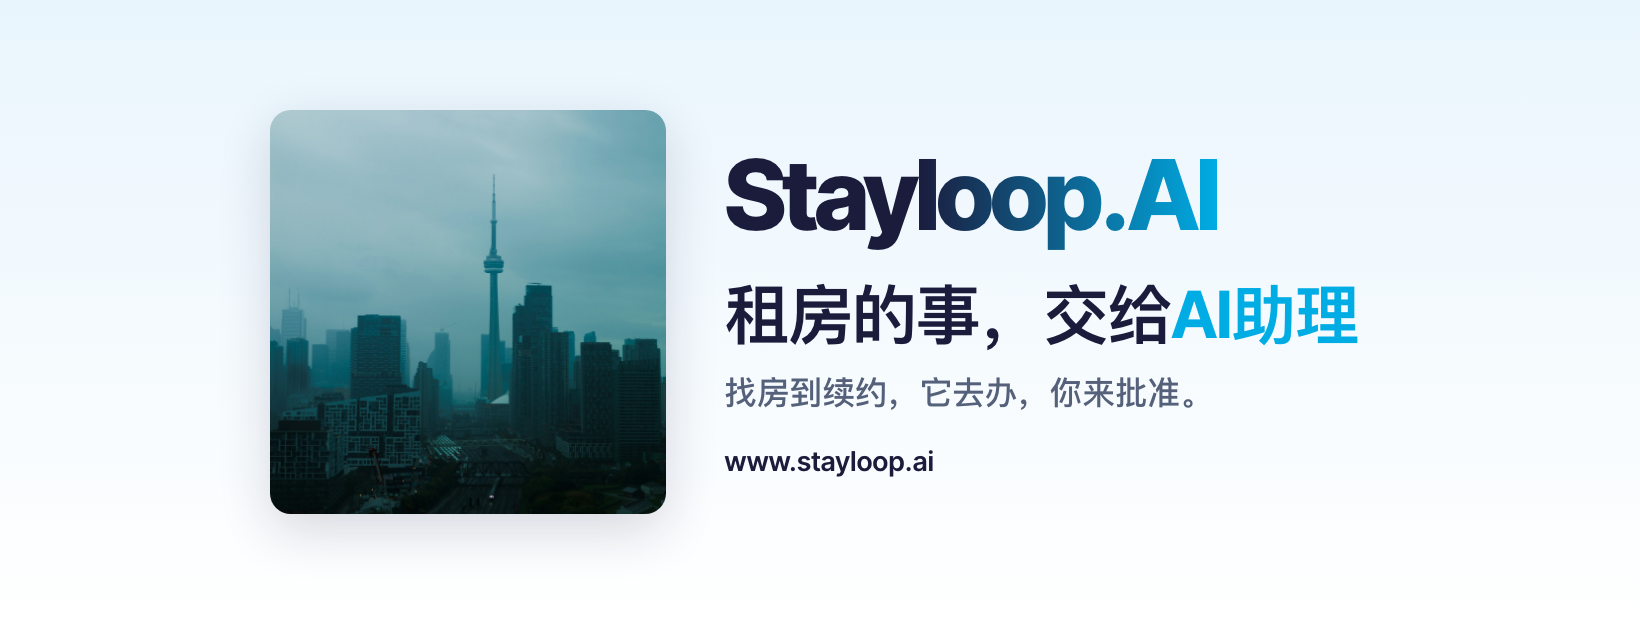
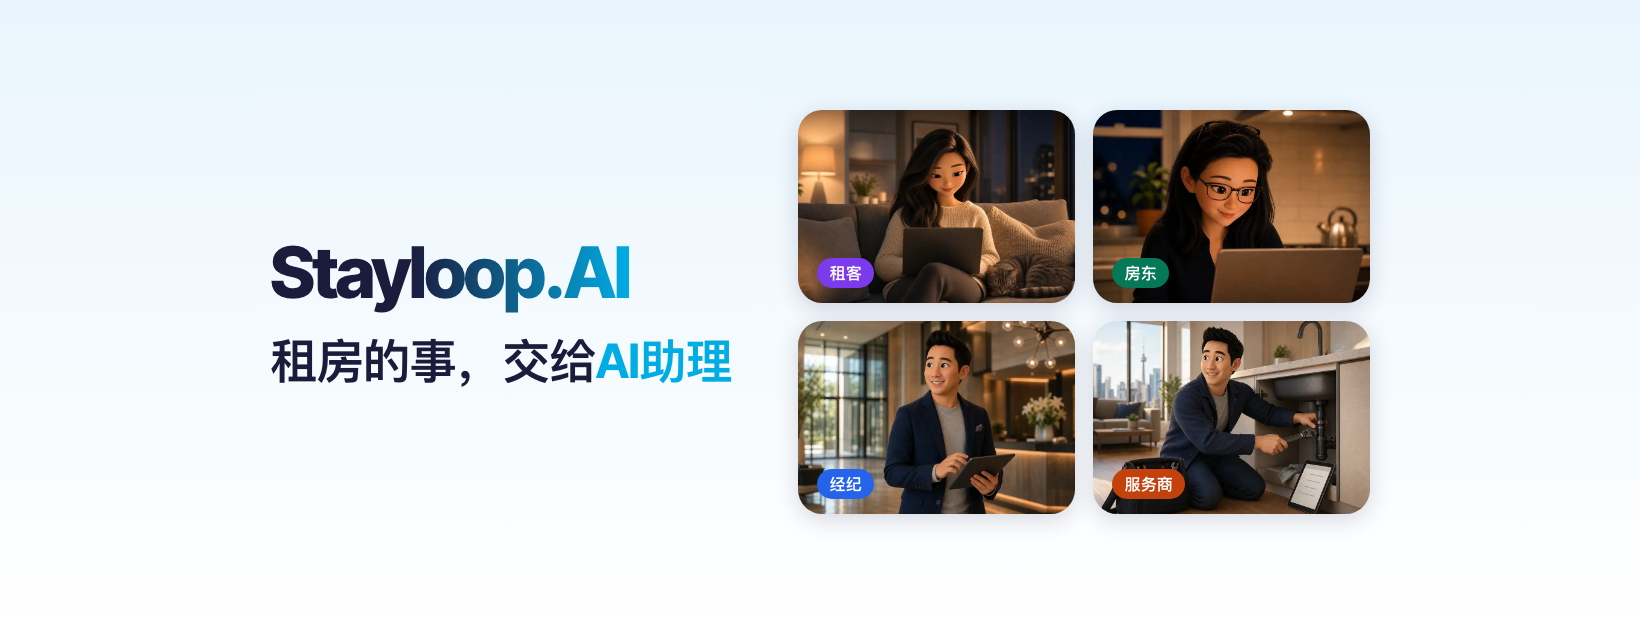
docs(social): 横幅改为四个身份场景卡（用户选定），模板保留另外三个方向

diff --git a/design/social/banner.template.html b/design/social/banner.template.html
@@ -13,47 +13,120 @@ body {
   color: #1B1B3C;
   -webkit-font-smoothing: antialiased;
 }
-#safe { position: absolute; display: flex; align-items: center; gap: calc(var(--u) * 0.9); }
-#photo { flex: 0 0 auto; height: 100%; border-radius: calc(var(--u) * 0.32); overflow: hidden; box-shadow: 0 calc(var(--u) * 0.25) calc(var(--u) * 0.8) rgba(27,27,60,0.16); }
-#photo img { width: 100%; height: 100%; object-fit: cover; object-position: 50% 49%; display: block; }
+#safe { position: absolute; display: flex; align-items: center; gap: calc(var(--g) * 1px); }
 #text { flex: 1 1 auto; min-width: 0; display: flex; flex-direction: column; justify-content: center; white-space: nowrap; }
 .wm { font-weight: 800; letter-spacing: -0.04em; line-height: 1; font-size: calc(var(--u) * 1.5); }
 .wm .accent { background: linear-gradient(90deg, #1B1B3C 0%, #00ACE4 100%); -webkit-background-clip: text; background-clip: text; -webkit-text-fill-color: transparent; }
 .hl { font-weight: 700; letter-spacing: -0.02em; line-height: 1.12; font-size: calc(var(--u) * 1); margin-top: calc(var(--u) * 0.55); }
 .hl em { font-style: normal; color: #00ACE4; }
 .sub { font-weight: 500; line-height: 1.25; font-size: calc(var(--u) * 0.5); margin-top: calc(var(--u) * 0.3); color: #55607A; }
-.url { font-weight: 600; font-size: calc(var(--u) * 0.42); margin-top: calc(var(--u) * 0.5); color: #1B1B3C; letter-spacing: 0.01em; }
-body.compact .sub, body.compact .url { display: none; }
-body.compact .hl { margin-top: calc(var(--u) * 0.35); }
+.url { font-weight: 600; font-size: calc(var(--u) * 0.42); margin-top: calc(var(--u) * 0.5); letter-spacing: 0.01em; }
+.roles { display: flex; gap: calc(var(--u) * 0.22); margin-top: calc(var(--u) * 0.6); }
+.pill { font-weight: 700; font-size: calc(var(--u) * 0.36); line-height: 1; color: #fff; padding: calc(var(--u) * 0.17) calc(var(--u) * 0.3); border-radius: 999px; }
+.hide { display: none !important; }
+
+/* media side */
+#media { flex: 0 0 auto; height: 100%; }
+.card { position: relative; border-radius: calc(var(--r) * 1px); overflow: hidden; box-shadow: 0 6px 22px rgba(27,27,60,0.16); }
+.card img { width: 100%; height: 100%; object-fit: cover; display: block; }
+#media.one .card { width: 100%; height: 100%; }
+#media.grid { display: grid; gap: calc(var(--g) * 0.28px); }
+#media.grid .card { width: 100%; height: 100%; min-height: 0; }
+.card .tag { position: absolute; left: 7%; bottom: 8%; font-weight: 700; color: #fff; line-height: 1; padding: 0.42em 0.75em; border-radius: 999px; font-size: calc(var(--t) * 1px); }
+
+/* v=c: dark */
+body.dark { background: radial-gradient(120% 140% at 85% 50%, #123A63 0%, #1B1B3C 55%, #14142E 100%); color: #FFFFFF; }
+body.dark .wm .accent { background: linear-gradient(90deg, #FFFFFF 0%, #00ACE4 100%); -webkit-background-clip: text; background-clip: text; }
+body.dark .sub { color: #B9C4DA; }
+body.dark .card { box-shadow: 0 10px 34px rgba(0,0,0,0.45); }
+/* v=c and v=d: the one-line promise is the headline */
+body.promise .hl { font-weight: 700; }
+/* v=d: type only */
+body.type .wm { font-size: calc(var(--u) * 0.95); }
+body.type .hl { font-size: calc(var(--u) * 1.75); margin-top: calc(var(--u) * 0.5); letter-spacing: -0.03em; }
 </style>
 </head>
 <body>
 <div id="safe">
-  <div id="photo"><img src="../../public/home/hero-mist.jpg" alt=""></div>
   <div id="text">
     <div class="wm">Stay<span class="accent">loop.AI</span></div>
-    <div class="hl" data-en="Leave renting to <em>an AI Agent</em>" data-zh="租房的事，交给<em>AI助理</em>"></div>
-    <div class="sub" data-en="From search to renewal: it does the work, you approve." data-zh="找房到续约，它去办，你来批准。"></div>
+    <div class="hl"></div>
+    <div class="sub"></div>
+    <div class="roles"></div>
     <div class="url">www.stayloop.ai</div>
   </div>
+  <div id="media"></div>
 </div>
 <script>
-// ?lang=en|zh&sx=&sy=&sw=&sh=&photo=<fraction of safe width>&compact=1
+// ?v=a|b|c|d&lang=en|zh&sx=&sy=&sw=&sh=&photo=<fraction of safe width>&compact=1
+//   a  light, misty skyline card on the left, headline + promise + url
+//   b  light, the four role scenes from the homepage (tenant / landlord / realtor / provider), headline only
+//   c  dark, one scene card on the right, the promise as the headline
+//   d  type only: small wordmark, big headline, role pills
 const q = new URLSearchParams(location.search);
 const num = (k, d) => (q.has(k) ? Number(q.get(k)) : d);
+const v = (q.get('v') || 'a').toLowerCase();
 const lang = q.get('lang') === 'zh' ? 'zh' : 'en';
+const compact = q.get('compact') === '1';
 document.documentElement.lang = lang === 'zh' ? 'zh-CN' : 'en';
-if (q.get('compact') === '1') document.body.classList.add('compact');
-for (const el of document.querySelectorAll('[data-en]')) el.innerHTML = el.dataset[lang];
+const T = {
+  headline: { en: 'Leave renting to <em>an AI Agent</em>', zh: '租房的事，交给<em>AI助理</em>' },
+  promise:  { en: 'From search to renewal: it does the work, you approve.', zh: '找房到续约，它去办，你来批准。' },
+  promiseHl:{ en: 'From search to renewal:<br>it does the work, <em>you approve.</em>', zh: '找房到续约，<br>它去办，<em>你来批准。</em>' },
+};
+const ROLES = [
+  { en: 'Tenant',   zh: '租客',   color: '#7C3AED', img: 'film/mia-sofa.webp',        pos: '50% 30%' },
+  { en: 'Landlord', zh: '房东',   color: '#047857', img: 'film/sarah-report.webp',    pos: '32% 35%' },
+  { en: 'Realtor',  zh: '经纪',   color: '#2563EB', img: 'film/david-lobby.webp',     pos: '76% 25%' },
+  { en: 'Provider', zh: '服务商', color: '#C2410C', img: 'film/provider-repair.webp', pos: '36% 30%' },
+];
+const IMG = '../../public/home/';
+const $ = (s) => document.querySelector(s);
+const safe = $('#safe'), text = $('#text'), media = $('#media');
 const W = innerWidth, H = innerHeight;
 const sx = num('sx', 0), sy = num('sy', 0), sw = num('sw', W), sh = num('sh', H);
-const safe = document.getElementById('safe'), photo = document.getElementById('photo'), text = document.getElementById('text');
 Object.assign(safe.style, { left: sx + 'px', top: sy + 'px', width: sw + 'px', height: sh + 'px' });
-photo.style.width = Math.round(sw * num('photo', 0.34)) + 'px';
+const root = document.documentElement.style;
+root.setProperty('--g', sh * 0.16);
+root.setProperty('--r', Math.max(8, sh * 0.06));
+const card = (src, pos) => `<div class="card"><img src="${IMG}${src}" style="object-position:${pos}" alt=""></div>`;
+const hide = (...sel) => sel.forEach((s) => $(s).classList.add('hide'));
+const pills = () => ROLES.map((r) => `<span class="pill" style="background:${r.color}">${r[lang]}</span>`).join('');
+
+$('.hl').innerHTML = T.headline[lang];
+$('.sub').textContent = T.promise[lang];
+if (v === 'a') {
+  hide('.roles');
+  if (compact) hide('.sub', '.url');
+  media.className = 'one'; media.style.order = -1;
+  media.style.width = Math.round(sw * num('photo', 0.34)) + 'px';
+  media.innerHTML = card('hero-mist.jpg', '50% 49%');
+} else if (v === 'b') {
+  hide('.sub', '.url', '.roles');
+  media.className = 'grid';
+  media.style.width = Math.round(sw * num('photo', 0.52)) + 'px';
+  media.style.gridTemplateColumns = compact ? 'repeat(4, 1fr)' : 'repeat(2, 1fr)';
+  media.style.gridTemplateRows = compact ? '1fr' : 'repeat(2, 1fr)';
+  root.setProperty('--t', compact ? 0 : Math.max(11, sh * 0.04));
+  media.innerHTML = ROLES.map((r) => `<div class="card"><img src="${IMG}${r.img}" style="object-position:${r.pos}" alt="">${compact ? '' : `<span class="tag" style="background:${r.color}">${r[lang]}</span>`}</div>`).join('');
+} else if (v === 'c') {
+  document.body.classList.add('dark', 'promise');
+  hide('.sub', '.url', '.roles');
+  $('.hl').innerHTML = compact ? T.promise[lang] : T.promiseHl[lang];
+  media.className = 'one';
+  media.style.width = Math.round(sw * num('photo', 0.44)) + 'px';
+  media.innerHTML = card('film/showing.webp', '50% 30%');
+} else {
+  document.body.classList.add('type');
+  hide('.sub', '#media');
+  if (compact) hide('.url'); 
+  $('.roles').innerHTML = pills();
+  hide('.url');
+}
 // Largest unit at which the text column fits the safe box in both directions.
-let u = sh / 3;
-const fits = () => text.scrollWidth <= text.clientWidth + 0.5 && [...text.children].reduce((h, c) => h + c.getBoundingClientRect().height + parseFloat(getComputedStyle(c).marginTop), 0) <= sh;
-const set = () => document.documentElement.style.setProperty('--u', u + 'px');
+let u = sh / 2.2;
+const fits = () => text.scrollWidth <= text.clientWidth + 0.5 && [...text.children].reduce((h, c) => h + (c.classList.contains('hide') ? 0 : c.getBoundingClientRect().height + parseFloat(getComputedStyle(c).marginTop)), 0) <= sh;
+const set = () => root.setProperty('--u', u + 'px');
 set();
 document.fonts.ready.then(() => { while (!fits() && u > 4) { u *= 0.98; set(); } document.title = 'ready u=' + u.toFixed(1); });
 </script>

diff --git a/design/history/2026-10.md b/design/history/2026-10.md
@@ -1227,4 +1227,5 @@ ship100 `efd44319`（3185 条测试、冒烟 10/10、路由审计 124/124）：
 - **用户名**：`stayloop` 在 Instagram / X / YouTube / TikTok 都已被别人占用，`stayloopai` 四处公开主页均不存在，定为统一用户名；Facebook 与 LinkedIn 未登录查不到，注册时再试。
 - **素材** `design/social/assets/`：头像 1024（沿用 09-22 定的一行「Stayloop.AI」字标，字宽收到 70% 以免圆形裁切）；X 1500×500、LinkedIn 1128×191、Facebook 1640×624、YouTube 2560×1440 横幅中英各一。底色是首页首屏渐变（#E9F5FD → #FFFFFF），照片卡是首页主图 `hero-mist.jpg`，主副标题原样取自 `HomeNext`。`build.sh` 用无头 Chrome 渲染两个模板（字体内嵌 base64，文字自动缩到安全区内）。
 - **文案** `design/social/README.md`：各平台注册入口、该填的字段、按字数上限裁好的简介（脚本逐段核对过）、置顶帖中英各一、注册顺序与收尾清单。登录邮箱 `social@stayloop.ai`，对外联系邮箱 `hello@stayloop.ai`。公司规模 / 成立年份 / 地址不代写。
+- **横幅改版（2026-11-05 · 用户「先改素材」→ 头像不改，版式 / 文字 / 照片都换 → 三个方向样张里选「四个身份场景卡」）**：浅色底不变，右侧换成首页四个身份的 3D 场景（`film/mia-sofa`、`sarah-report`、`david-lobby`、`provider-repair`）2×2 排列并带身份色标签（LinkedIn 窄条排成 1×4、不带标签）；文字只留字标与主标题，副标题和网址去掉。模板保留四个方向（`VARIANT=a|b|c|d`，默认 `b`）：a 雾景照片卡、c 深色底看房场景 + 「找房到续约，它去办，你来批准。」作主句、d 纯文字 + 身份色标签。
 

diff --git a/design/social/README.md b/design/social/README.md
@@ -34,17 +34,23 @@
 
 ## 3. 图片素材
 
-都在 [`assets/`](assets/)，由 `build.sh` 从 `banner.template.html` / `avatar.template.html` 生成（字标、配色、首页渐变底、首页主图与主副标题都取自线上站点）。要改文案或尺寸就改模板再跑一次：
+都在 [`assets/`](assets/)，由 `build.sh` 从 `banner.template.html` / `avatar.template.html` 生成。字标、配色、首页渐变底、主标题都取自线上站点；横幅右侧四张图是首页四个身份的 3D 场景（租客、房东、经纪、服务商），标签用各自的身份色。要改文案或尺寸就改模板再跑一次：
 
 ```bash
 bash design/social/build.sh
 ```
 
+横幅现在用的是「四个身份场景卡」（2026-11-05 选定）。模板里还留着另外三个方向，想换就带上 `VARIANT`：`a` 浅色底加多伦多雾景照片、`c` 深色底单张看房场景、`d` 不用照片的纯文字。
+
+```bash
+VARIANT=c bash design/social/build.sh
+```
+
 | 文件 | 用在哪里 |
 |---|---|
 | `avatar-1024.png` | 全部八个平台的头像。一行字标、白底，四周留白按圆形裁切算过 |
-| `x-header-1500x500-en.png` / `-zh.png` | X 顶部横幅。左下角留给头像 |
-| `linkedin-cover-1128x191-en.png` / `-zh.png` | LinkedIn 公司主页封面 |
+| `x-header-1500x500-en.png` / `-zh.png` | X 顶部横幅。左侧留空给头像 |
+| `linkedin-cover-1128x191-en.png` / `-zh.png` | LinkedIn 公司主页封面。高度只有 191，四张图排成一行、不带标签 |
 | `facebook-cover-1640x624-en.png` / `-zh.png` | Facebook 主页封面。内容在中间 67%，手机端不会被裁掉 |
 | `youtube-banner-2560x1440-en.png` / `-zh.png` | YouTube 频道横幅。内容在中间 1546×423 安全区 |
 
